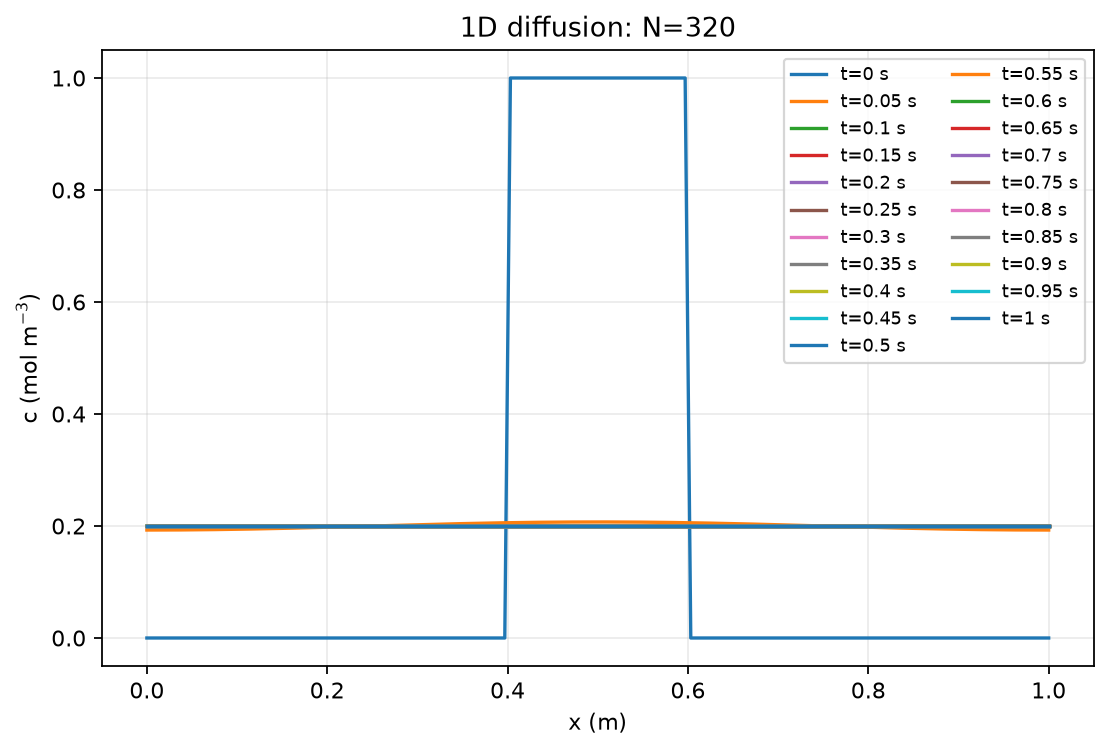
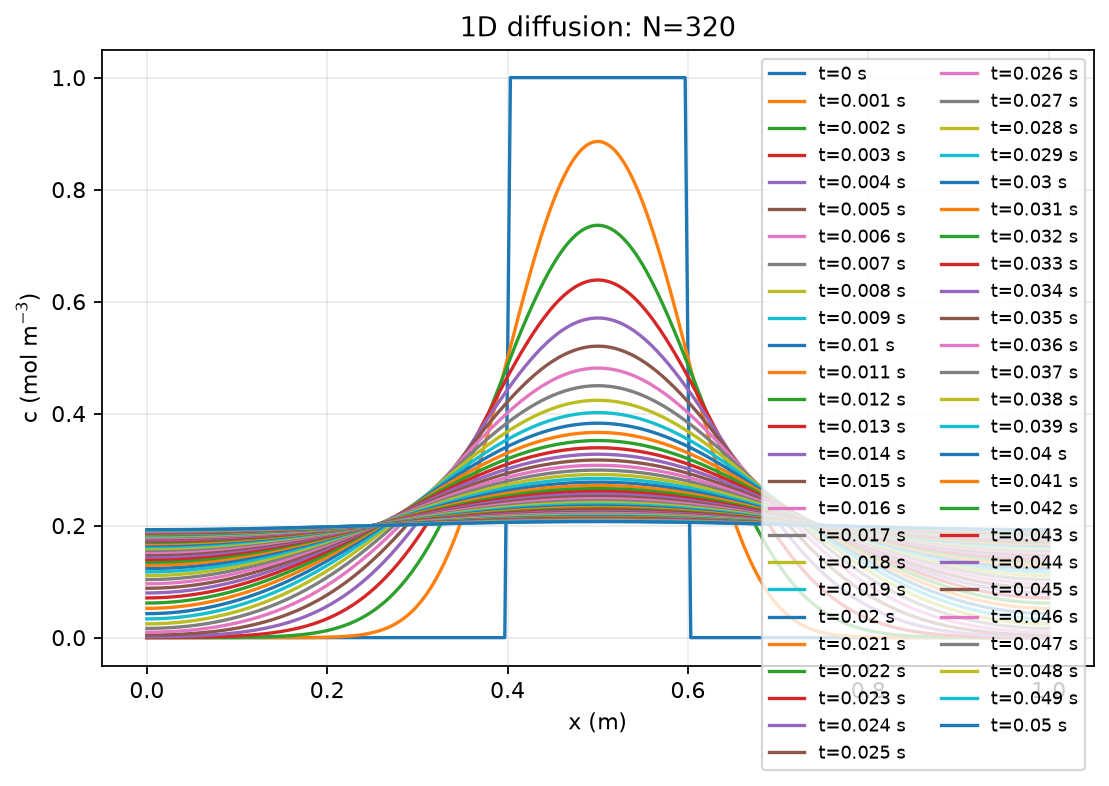
Use mesh-compatible plot output timesteps

diff --git a/basics/diffusion_1d.py b/basics/diffusion_1d.py
@@ -120,16 +120,17 @@ def run_all_cases(output_root: str | Path = "results") -> None:
 
 def make_plots(problem: Problem, root: Path, refinement: list[tuple[int, float]], times: tuple[float, ...]) -> None:
     root.mkdir(parents=True, exist_ok=True)
-    times_1s = tuple(np.arange(0.0, 0.05 + 0.0005, 0.001))
     all_results = {}
     for n, dt in refinement:
         x, _, _ = grid_and_initial_condition(problem, n)
-        all_results[n] = (x, solve(problem, n, dt, times_1s))
+        output_spacing = 0.002 if n == 10 else 0.001
+        output_times = tuple(np.arange(0.0, 0.05 + 0.5 * output_spacing, output_spacing))
+        all_results[n] = (x, solve(problem, n, dt, output_times))
 
     # Plot 1: all six meshes, each in its own panel, at 0.05 s intervals.
     fig, axes = plt.subplots(2, 3, figsize=(15, 8), sharex=True, sharey=True)
     for ax, (n, (x, solutions)) in zip(axes.flat, all_results.items()):
-        for time in times_1s:
+        for time in solutions:
             ax.plot(x, solutions[time], label=f"t={time:g}")
         ax.set_title(f"N={n}")
         ax.set_xlabel("x (m)")
@@ -145,7 +146,7 @@ def make_plots(problem: Problem, root: Path, refinement: list[tuple[int, float]]
     for n in (10, 160, 320):
         x, solutions = all_results[n]
         fig, ax = plt.subplots(figsize=(8, 5))
-        for time in times_1s:
+        for time in solutions:
             ax.plot(x, solutions[time], label=f"t={time:g} s")
         ax.set(xlabel="x (m)", ylabel="c (mol m$^{-3}$)", title=f"1D diffusion: N={n}")
         ax.grid(alpha=0.25)
